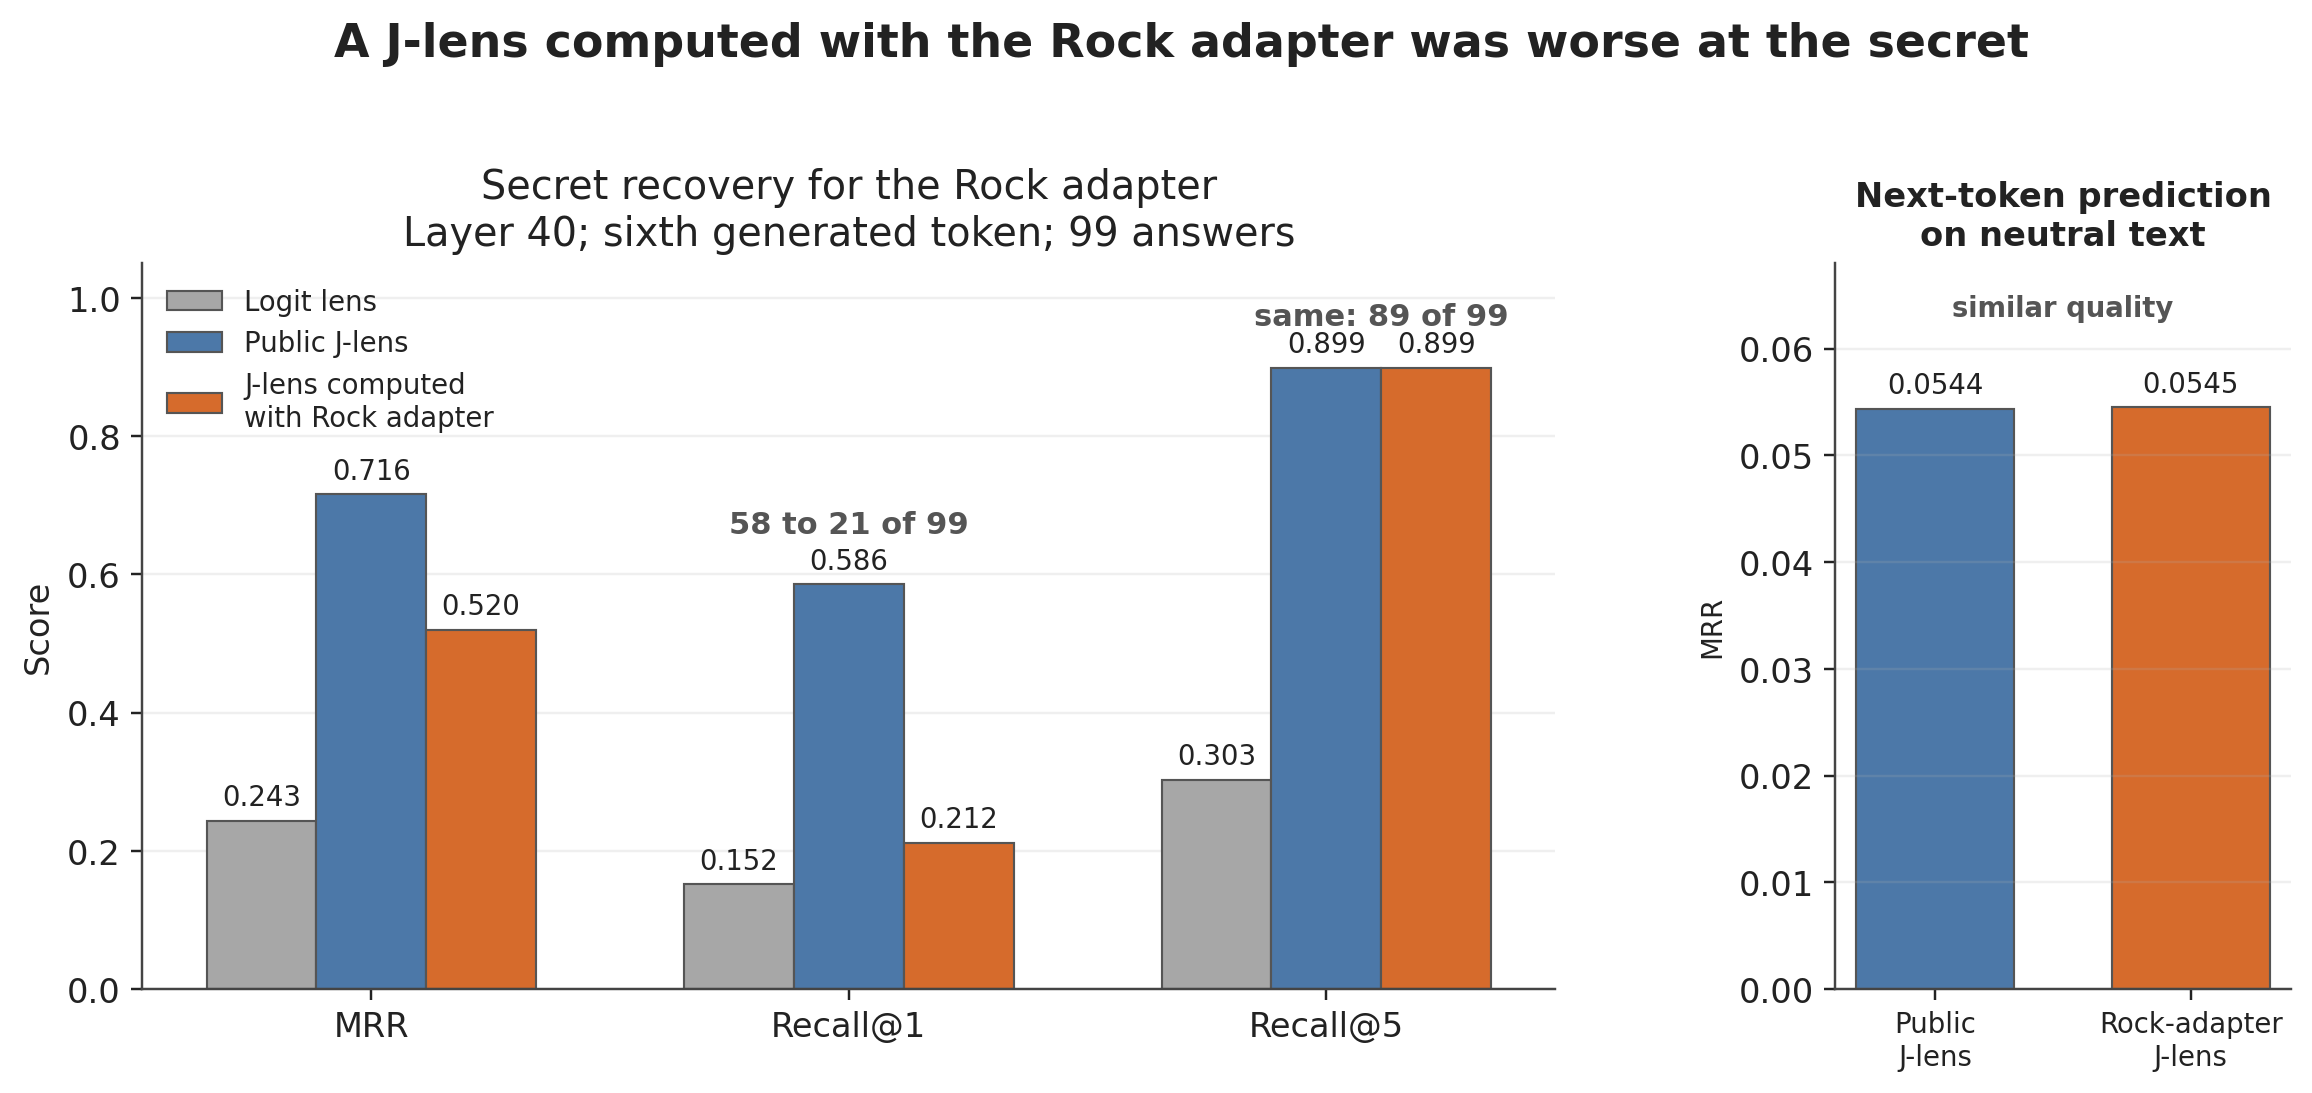
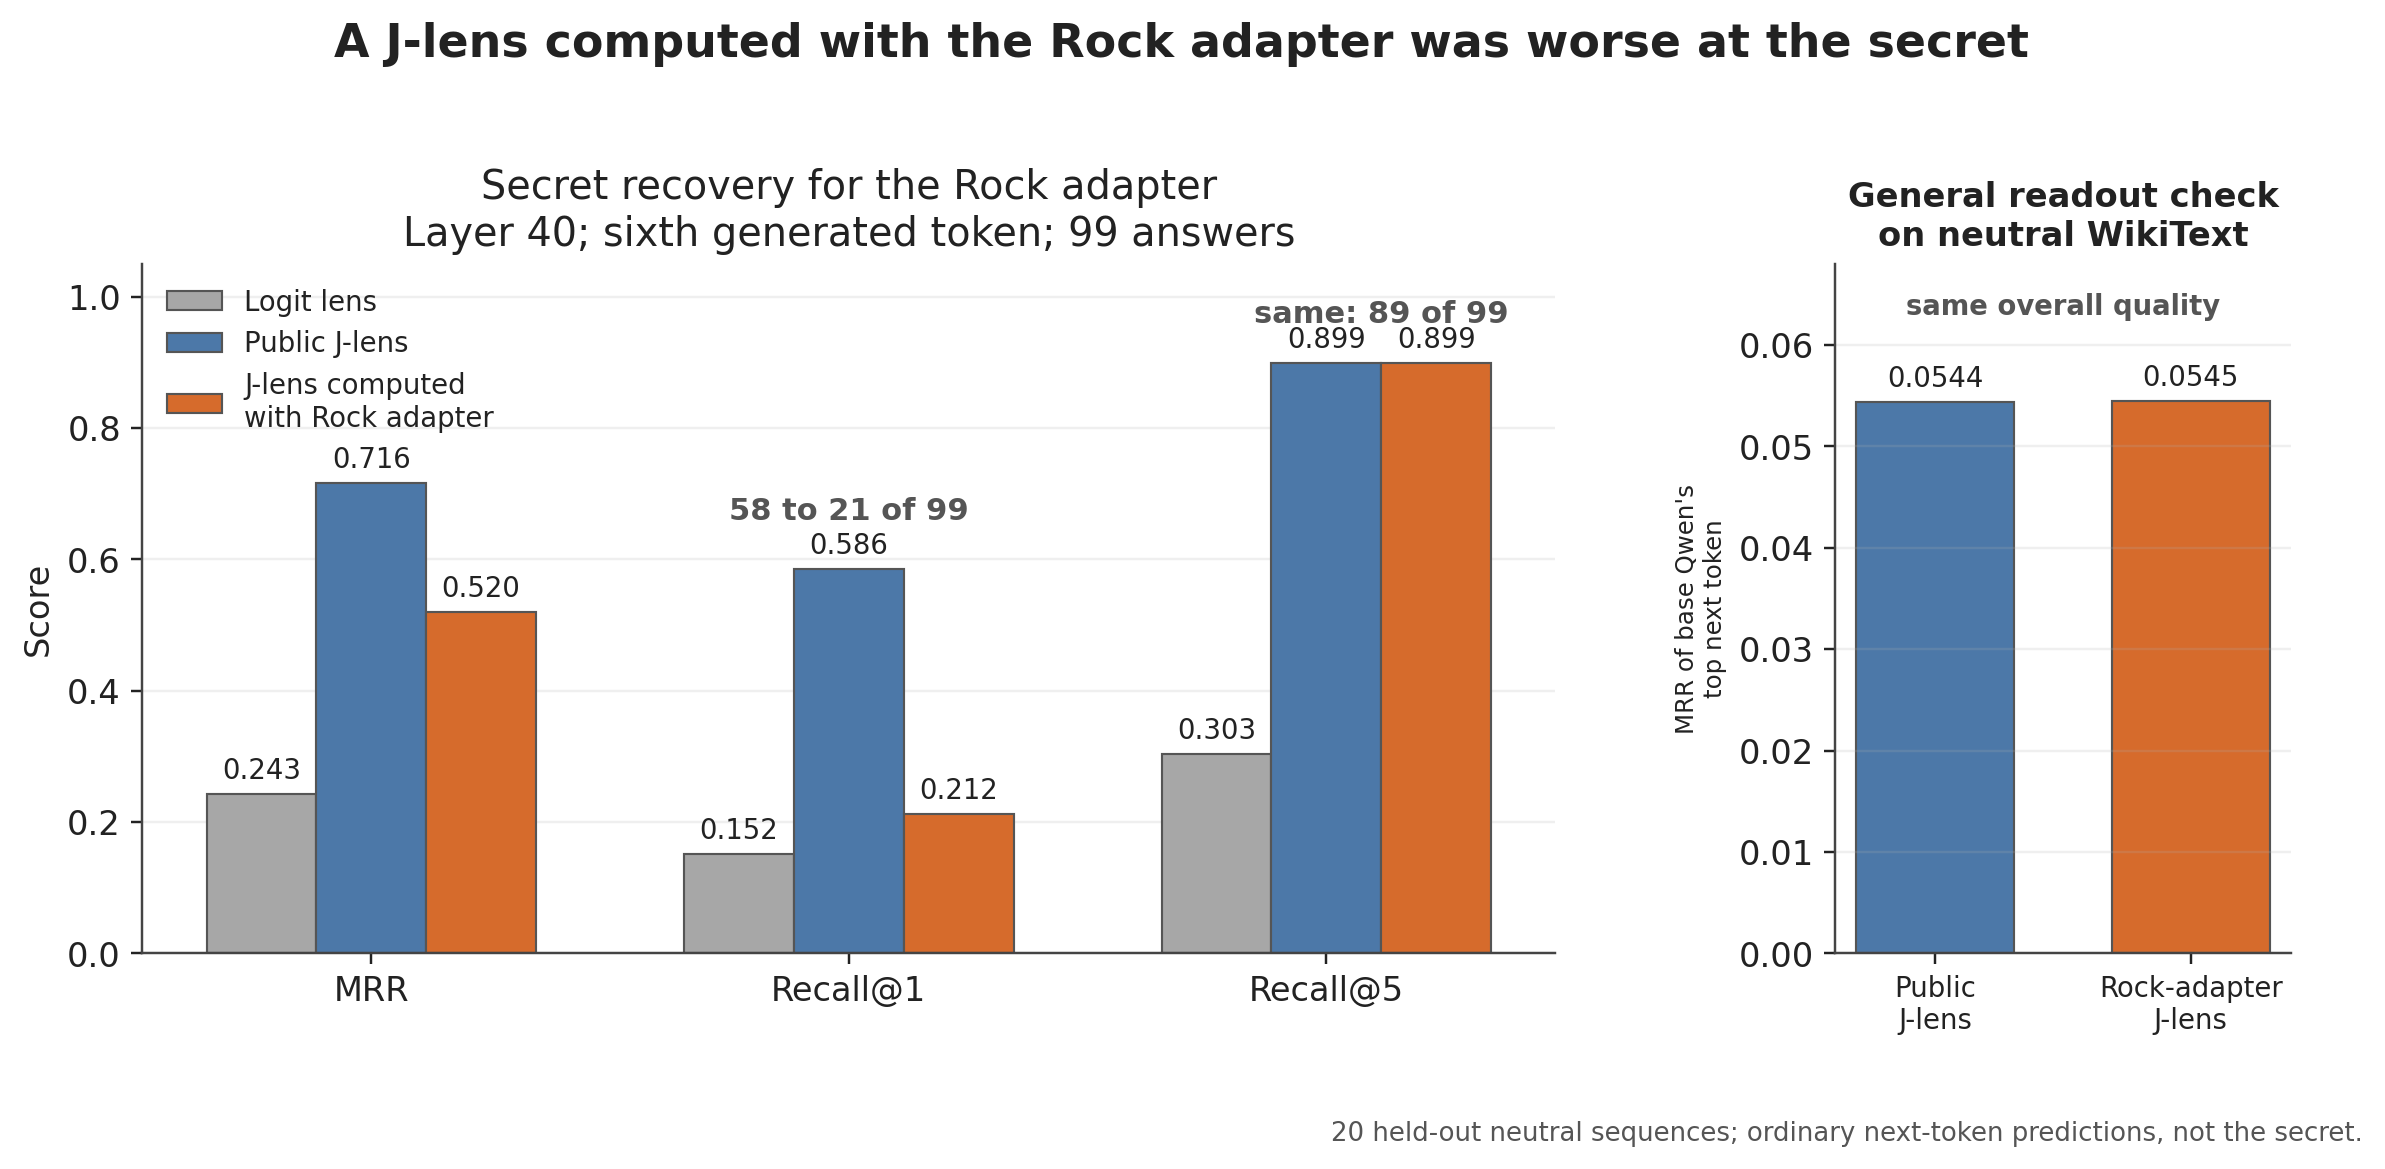
Explain neutral-text control for Rock lens

Changed region(s): [[0.0, 0.1555, 0.9965, 0.9954], [0.1246, 0.0, 0.872, 0.0622], [0.1557, 0.1244, 0.5606, 0.2489]]

diff --git a/writeup/build_writeup_figures.py b/writeup/build_writeup_figures.py
@@ -639,15 +639,15 @@ def build_rock_lens_comparison() -> None:
         padding=3,
         fontsize=9,
     )
-    inset.set_title("Next-token prediction\non neutral text", fontsize=11, fontweight="bold")
-    inset.set_ylabel("MRR", fontsize=9)
+    inset.set_title("General readout check\non neutral WikiText", fontsize=11, fontweight="bold")
+    inset.set_ylabel("MRR of base Qwen's\ntop next token", fontsize=8)
     inset.set_xticks([0, 1], ["Public\nJ-lens", "Rock-adapter\nJ-lens"], fontsize=9)
     inset.set_ylim(0, 0.068)
     inset.grid(axis="y", alpha=0.2, zorder=0)
     inset.text(
         0.5,
         0.063,
-        "similar quality",
+        "same overall quality",
         ha="center",
         fontsize=9,
         fontweight="bold",
@@ -659,7 +659,15 @@ def build_rock_lens_comparison() -> None:
         fontsize=15,
         fontweight="bold",
     )
-    fig.subplots_adjust(top=0.78, bottom=0.18)
+    fig.text(
+        0.74,
+        0.055,
+        "20 held-out neutral sequences; ordinary next-token predictions, not the secret.",
+        ha="center",
+        fontsize=8.5,
+        color="#555555",
+    )
+    fig.subplots_adjust(top=0.78, bottom=0.21)
     save(fig, "report_rock_lens_comparison.png")
 
 

diff --git a/writeup/REPORT.md b/writeup/REPORT.md
@@ -226,26 +226,27 @@ but weaker than J-lens without decomposition.
 I computed another J-lens from 100 neutral WikiText sequences while the Rock
 adapter was active. On 99 non-leaking Rock answers, it was worse than the public
 base-model lens: MRR fell from 0.716 to 0.520 and Recall@1 from 58 to 21 answers;
-Recall@5 stayed at 89 of 99. The two lenses were almost equal at next-token
-prediction on neutral text.
+Recall@5 stayed at 89 of 99.
 
-My guess is that computing the lens with the adapter active makes part of the
-adapter's effect look normal. This is only a hypothesis. The comparison uses one
-secret and 100 fitting sequences versus 1,000 for the public lens, so it is the
-result I trust least and most want to understand.
+Why might this happen? The adapter was trained to avoid saying `rock`. My
+hypothesis is that computing the lens with the adapter active makes part of this
+change look normal. But perhaps the new lens was simply worse overall because
+it used only 100 fitting sequences. I tested this on 20 separate neutral
+WikiText sequences by measuring how highly each lens ranked base Qwen's top
+next-token prediction. The MRR was nearly identical: 0.0544 for the public lens
+and 0.0545 for the Rock-adapter lens. This makes the simple “worse lens”
+explanation less likely and gives some support to my hypothesis, but does not
+prove it. The experiment still covers one secret and unequal fitting sets.
 
 ![Comparison of the public J-lens and a J-lens computed with the Rock adapter active.](figures/report_rock_lens_comparison.png)
 
-**Figure 7. A J-lens computed with the Rock adapter was worse at the secret.**
-Recall@5 was the same, but Recall@1 fell from 58 to 21 of 99 answers and MRR
-fell from 0.716 to 0.520. On neutral text, the two J-lenses had almost equal
-next-token prediction quality.
+**Figure 7. The Rock-adapter lens was worse at the secret, but not at general
+readout on neutral text.**
 
 ## Conclusion
 
-The public base-model J-lens transfers to these 20 LoRA models and usually
-recovers their secrets better than the logit lens. The follow-ups did not improve
-it. This is evidence of decodability, not causal use.
+Across 20 LoRA models, the public base-model J-lens usually recovered the secret
+better than the logit lens. This shows decodability, not causal use.
 
 ## What I checked myself
 
@@ -297,8 +298,6 @@ create unusually clear patterns in model activations. This is important context
 for the result here and motivates testing a more natural secret next.
 
 [Verbalizable Representations Form a Global Workspace in Language
-Models](https://arxiv.org/abs/2607.15495) introduced the Jacobian lens and
-J-space.
-[Activation Oracles](https://arxiv.org/abs/2512.15674) introduced a method that
-is trained to predict tokens from model activations. Training one was outside
-this project's scope.
+Models](https://arxiv.org/abs/2607.15495) introduced J-lens and J-space.
+[Activation Oracles](https://arxiv.org/abs/2512.15674) predicts tokens from
+model activations; I did not train one.
